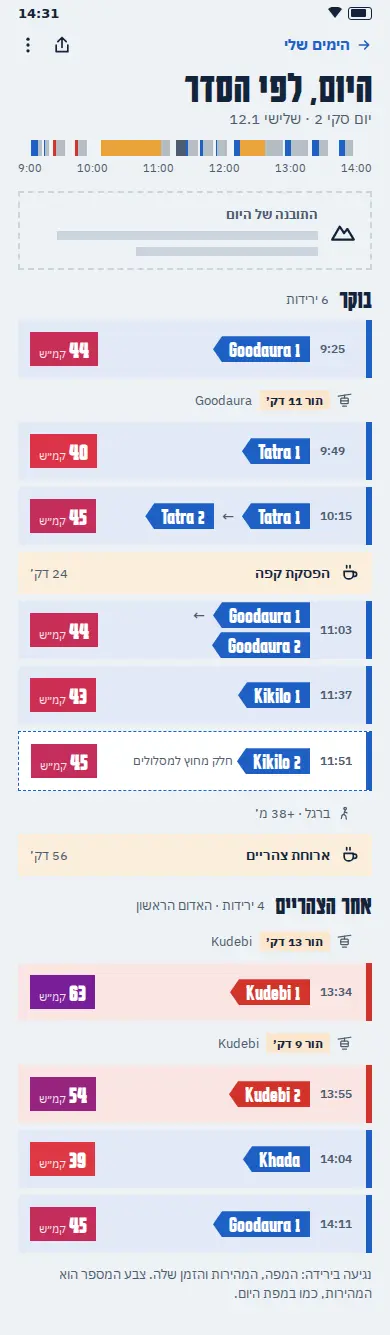
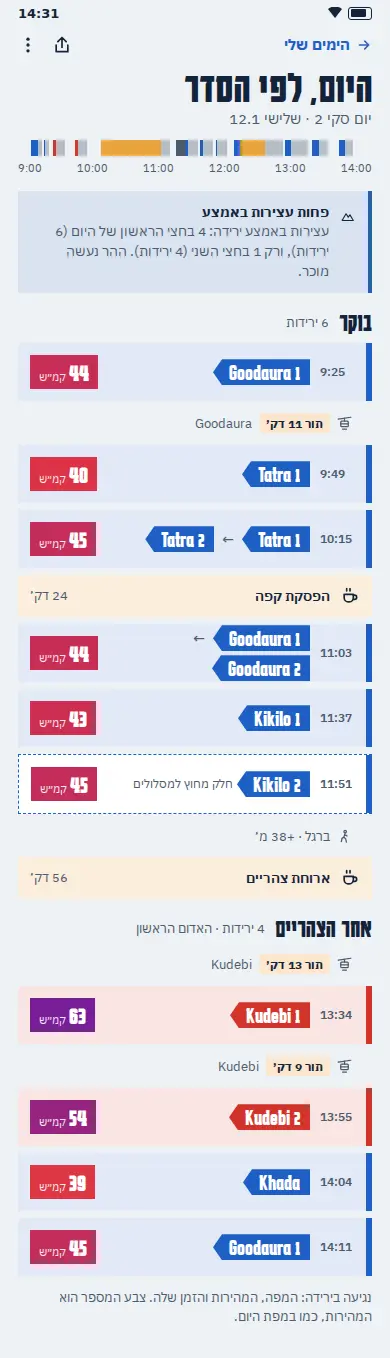
Canvas v97: insights, trip-end card and contrast fixes in round 29
Row I shows the content session's single-voice insights (and the
timeline uses one), a trip-end share card, and a new row J proposes
three contrast fixes for every platform.

Claude-Session: https://claude.ai/code/session_018WEovaqXC4kNabe89Cnwoj

diff --git a/design/canvas/project/R29-0-Decide.dc.html b/design/canvas/project/R29-0-Decide.dc.html
@@ -12,9 +12,9 @@
 body{margin:0;background:#EEF2F5}
 </style>
 </helmet>
-<div style="width: 600px; height: 1500px; box-sizing: border-box; padding: 28px; background: #FFFFFF; color: #13233A; font-family: 'IBM Plex Sans Hebrew', system-ui, sans-serif; direction: rtl; border-top: 8px solid #1F5FC4"><h1 style="margin: 0; font-family: Karantina, 'Arial Narrow', sans-serif; font-size: 48px; line-height: 1">מה לאשר בסבב 29</h1><p style="margin: 8px 0 12px; font-size: 14.5px; line-height: 1.55; color: #4B5A6F">גרסה 2, לפי ההערות של פיני (31.10.2026): כניסה אחת "מקליטים" מכל מקום, בלי סוללה, ציר זמן חדש, ובלי GPX. יום הגלישה (החלטה 76): הקלטה, מהירות והמסלול היומי, באנדרואיד ובאייפון, ביום ובלילה, בעברית ובאנגלית, מעל צילומי שתי האפליקציות. יום לדוגמה: קווים וגבהים אמיתיים, שעות ומהירויות מומצאות.</p><ol style="margin: 0; padding: 0; list-style: none"><li style="display: flex; flex-direction: column; gap: 2px; padding: 9px 0; border-top: 1px solid #CBD5DF"><b style="font-size: 16px">ההמלצה</b><span style="font-size: 14px; line-height: 1.55; color: #4B5A6F"><b style="color: #13233A">הכל כמו בלוחות:</b> כניסה אחת, &quot;מקליטים&quot;, כסקי־פס בדף הבית וכפתור במפה, מכל מקום ובכל שעה; אחרי הנגיעה בוחרים כל היום או ירידה אחת; הצעה אחת כשנפתחים בתוך האתר, מסך חי עם המהירות גדולה ו&quot;על מה אני עכשיו&quot;, התראה קבועה ו-Live Activity, ובסוף היום סיכום, מפה לפי מהירות, ציר זמן, צפייה חוזרת, כרטיס לכל ירידה, שיאים ותמונה לשיתוף.</span></li><li style="display: flex; flex-direction: column; gap: 2px; padding: 9px 0; border-top: 1px solid #CBD5DF"><b style="font-size: 16px">1. איפה מתחילים</b><span style="font-size: 14px; line-height: 1.55; color: #4B5A6F">סקי־פס &quot;מקליטים&quot; בראש עמוד השלטים וכפתור עגול במפה (ההמלצה), תמיד ובכל מקום, באותו עיצוב בשתי האפליקציות. או רק הכפתור במפה.</span></li><li style="display: flex; flex-direction: column; gap: 2px; padding: 9px 0; border-top: 1px solid #CBD5DF"><b style="font-size: 16px">2. ההצעה בתוך האתר</b><span style="font-size: 14px; line-height: 1.55; color: #4B5A6F">הצעה אחת ליום, עם &quot;לא עכשיו&quot; (ההמלצה), או בלי הצעה בכלל?</span></li><li style="display: flex; flex-direction: column; gap: 2px; padding: 9px 0; border-top: 1px solid #CBD5DF"><b style="font-size: 16px">3. צבע המהירות</b><span style="font-size: 14px; line-height: 1.55; color: #4B5A6F">סולם משלו, צהוב עד סגול (ההמלצה), כדי שלא יתבלבל עם צבעי המסלולים והשיפוע.</span></li><li style="display: flex; flex-direction: column; gap: 2px; padding: 9px 0; border-top: 1px solid #CBD5DF"><b style="font-size: 16px">4. התמונה לשיתוף</b><span style="font-size: 14px; line-height: 1.55; color: #4B5A6F">בלי שם ובלי חשבון (ההמלצה). עם שם כשיהיה שיתוף לקבוצה (שלב הבא).</span></li><li style="display: flex; flex-direction: column; gap: 2px; padding: 9px 0; border-top: 1px solid #CBD5DF"><b style="font-size: 16px">5. סיום</b><span style="font-size: 14px; line-height: 1.55; color: #4B5A6F">&quot;סיום&quot; שואל לפני שעוצר (ההמלצה), ובאנדרואיד גם בהתראה.</span></li><li style="display: flex; flex-direction: column; gap: 2px; padding: 9px 0; border-top: 1px solid #CBD5DF"><b style="font-size: 16px">6. &quot;פה נפלת&quot;</b><span style="font-size: 14px; line-height: 1.55; color: #4B5A6F">כשאלה משועשעת בציר הזמן, עם &quot;לא נפלתי&quot; שמוחק (ההמלצה), או בלי בכלל? ניחוש לפי תנועת הטלפון, לא ודאות ולא כלי בטיחות.</span></li><li style="display: flex; flex-direction: column; gap: 2px; padding: 9px 0; border-top: 1px solid #CBD5DF"><b style="font-size: 16px">7. על הרכבל</b><span style="font-size: 14px; line-height: 1.55; color: #4B5A6F">סיכום הירידה שהרגע עשית בהתראה וב-Live Activity כשעולים לרכבל (ההמלצה). באייפון Live Activity אחרי סקירת שרשרת השחרור.</span></li><li style="display: flex; flex-direction: column; gap: 2px; padding: 9px 0; border-top: 1px solid #CBD5DF"><b style="font-size: 16px">8. היום שלך</b><span style="font-size: 14px; line-height: 1.55; color: #4B5A6F">כרטיס אחד כמו כרטיס הטיסה, עם ציוני דרך מול עצמך בלבד, בלי דירוג (ההמלצה). &quot;סרטון קצר&quot; מהצפייה החוזרת לשיתוף.</span></li><li style="display: flex; flex-direction: column; gap: 2px; padding: 9px 0; border-top: 1px solid #CBD5DF"><b style="font-size: 16px">9. ירידה אחת</b><span style="font-size: 14px; line-height: 1.55; color: #4B5A6F">כבר לא כפתור נפרד (פיני): בורר &quot;כל היום / ירידה אחת&quot; בראש הגיליון החי, אחרי אותה נגיעה (ההמלצה). ירידה אחת נעצרת לבד בתחתית, וכרטיס מיד.</span></li><li style="display: flex; flex-direction: column; gap: 2px; padding: 9px 0; border-top: 1px solid #CBD5DF"><b style="font-size: 16px">10. מפת היום</b><span style="font-size: 14px; line-height: 1.55; color: #4B5A6F"><b style="color: #13233A">מפה משלה (ההמלצה):</b> בסיכום, בציר הזמן ובצפייה החוזרת המסלולים באפור עמום, ורק השובל צבוע לפי מהירות; על המפה הראשית שני סולמות צבע נלחמים זה בזה. בזמן ההקלטה השובל בכחול אחד על המפה הרגילה.</span></li><li style="display: flex; flex-direction: column; gap: 2px; padding: 9px 0; border-top: 1px solid #CBD5DF"><b style="font-size: 16px">11. הטון של &quot;הסיפור של היום&quot;</b><span style="font-size: 14px; line-height: 1.55; color: #4B5A6F">פיני אהב את התובנות, ורוצה תובנות אמיתיות ולא נתונים יבשים. הנוסחים אצל סשן התוכן; בלוחות מקום שמור (&quot;התובנה של היום&quot;). שובב ולא לועג, אף פעם לא על הרמה או על הגוף, ובלי השוואה לאחרים.</span></li><li style="display: flex; flex-direction: column; gap: 2px; padding: 9px 0; border-top: 1px solid #CBD5DF"><b style="font-size: 16px">12. יום לדוגמה</b><span style="font-size: 14px; line-height: 1.55; color: #4B5A6F">יום אחד לדוגמה ב&quot;הימים שלי&quot; עד היום האמיתי הראשון, מסומן ונפתח כמו יום אמיתי, ואחר כך בשורה אחת בתחתית עם &quot;הסרה&quot; (ההמלצה: כן). עוזר למשתמש חדש לפני העונה, ולסוקרים של אפל וגוגל, שלא נמצאים בגודאורי.</span></li><li style="display: flex; flex-direction: column; gap: 2px; padding: 9px 0; border-top: 1px solid #CBD5DF"><b style="font-size: 16px">13. בלי GPX</b><span style="font-size: 14px; line-height: 1.55; color: #4B5A6F">הייצוא ירד מגרסה 1 (פיני: טכני מדי). אז נמחק גם המשפט על הייצוא בשורת הפרטיות.</span></li><li style="display: flex; flex-direction: column; gap: 2px; padding: 9px 0; border-top: 1px solid #CBD5DF"><b style="font-size: 16px">אחרי האישור</b><span style="font-size: 14px; line-height: 1.55; color: #4B5A6F">סשני האנדרואיד והאייפון מממשים במקביל, אחרי סקירת הארכיטקט ושורת הפרטיות. שום דבר לא שונה באפליקציות.</span></li></ol></div>
+<div style="width: 600px; height: 1640px; box-sizing: border-box; padding: 28px; background: #FFFFFF; color: #13233A; font-family: 'IBM Plex Sans Hebrew', system-ui, sans-serif; direction: rtl; border-top: 8px solid #1F5FC4"><h1 style="margin: 0; font-family: Karantina, 'Arial Narrow', sans-serif; font-size: 48px; line-height: 1">מה לאשר בסבב 29</h1><p style="margin: 8px 0 12px; font-size: 14.5px; line-height: 1.55; color: #4B5A6F">גרסה 2, לפי ההערות של פיני (31.10.2026): כניסה אחת "מקליטים" מכל מקום, בלי סוללה, ציר זמן חדש, ובלי GPX. יום הגלישה (החלטה 76): הקלטה, מהירות והמסלול היומי, באנדרואיד ובאייפון, ביום ובלילה, בעברית ובאנגלית, מעל צילומי שתי האפליקציות. יום לדוגמה: קווים וגבהים אמיתיים, שעות ומהירויות מומצאות.</p><ol style="margin: 0; padding: 0; list-style: none"><li style="display: flex; flex-direction: column; gap: 2px; padding: 9px 0; border-top: 1px solid #CBD5DF"><b style="font-size: 16px">ההמלצה</b><span style="font-size: 14px; line-height: 1.55; color: #4B5A6F"><b style="color: #13233A">הכל כמו בלוחות:</b> כניסה אחת, &quot;מקליטים&quot;, כסקי־פס בדף הבית וכפתור במפה, מכל מקום ובכל שעה; אחרי הנגיעה בוחרים כל היום או ירידה אחת; הצעה אחת כשנפתחים בתוך האתר, מסך חי עם המהירות גדולה ו&quot;על מה אני עכשיו&quot;, התראה קבועה ו-Live Activity, ובסוף היום סיכום, מפה לפי מהירות, ציר זמן, צפייה חוזרת, כרטיס לכל ירידה, שיאים ותמונה לשיתוף.</span></li><li style="display: flex; flex-direction: column; gap: 2px; padding: 9px 0; border-top: 1px solid #CBD5DF"><b style="font-size: 16px">1. איפה מתחילים</b><span style="font-size: 14px; line-height: 1.55; color: #4B5A6F">סקי־פס &quot;מקליטים&quot; בראש עמוד השלטים וכפתור עגול במפה (ההמלצה), תמיד ובכל מקום, באותו עיצוב בשתי האפליקציות. או רק הכפתור במפה.</span></li><li style="display: flex; flex-direction: column; gap: 2px; padding: 9px 0; border-top: 1px solid #CBD5DF"><b style="font-size: 16px">2. ההצעה בתוך האתר</b><span style="font-size: 14px; line-height: 1.55; color: #4B5A6F">הצעה אחת ליום, עם &quot;לא עכשיו&quot; (ההמלצה), או בלי הצעה בכלל?</span></li><li style="display: flex; flex-direction: column; gap: 2px; padding: 9px 0; border-top: 1px solid #CBD5DF"><b style="font-size: 16px">3. צבע המהירות</b><span style="font-size: 14px; line-height: 1.55; color: #4B5A6F">סולם משלו, צהוב עד סגול (ההמלצה), כדי שלא יתבלבל עם צבעי המסלולים והשיפוע.</span></li><li style="display: flex; flex-direction: column; gap: 2px; padding: 9px 0; border-top: 1px solid #CBD5DF"><b style="font-size: 16px">4. התמונה לשיתוף</b><span style="font-size: 14px; line-height: 1.55; color: #4B5A6F">בלי שם ובלי חשבון (ההמלצה). עם שם כשיהיה שיתוף לקבוצה (שלב הבא).</span></li><li style="display: flex; flex-direction: column; gap: 2px; padding: 9px 0; border-top: 1px solid #CBD5DF"><b style="font-size: 16px">5. סיום</b><span style="font-size: 14px; line-height: 1.55; color: #4B5A6F">&quot;סיום&quot; שואל לפני שעוצר (ההמלצה), ובאנדרואיד גם בהתראה.</span></li><li style="display: flex; flex-direction: column; gap: 2px; padding: 9px 0; border-top: 1px solid #CBD5DF"><b style="font-size: 16px">6. &quot;פה נפלת&quot;</b><span style="font-size: 14px; line-height: 1.55; color: #4B5A6F">כשאלה משועשעת בציר הזמן, עם &quot;לא נפלתי&quot; שמוחק (ההמלצה), או בלי בכלל? ניחוש לפי תנועת הטלפון, לא ודאות ולא כלי בטיחות.</span></li><li style="display: flex; flex-direction: column; gap: 2px; padding: 9px 0; border-top: 1px solid #CBD5DF"><b style="font-size: 16px">7. על הרכבל</b><span style="font-size: 14px; line-height: 1.55; color: #4B5A6F">סיכום הירידה שהרגע עשית בהתראה וב-Live Activity כשעולים לרכבל (ההמלצה). באייפון Live Activity אחרי סקירת שרשרת השחרור.</span></li><li style="display: flex; flex-direction: column; gap: 2px; padding: 9px 0; border-top: 1px solid #CBD5DF"><b style="font-size: 16px">8. היום שלך</b><span style="font-size: 14px; line-height: 1.55; color: #4B5A6F">כרטיס אחד כמו כרטיס הטיסה, עם ציוני דרך מול עצמך בלבד, בלי דירוג (ההמלצה). &quot;סרטון קצר&quot; מהצפייה החוזרת לשיתוף.</span></li><li style="display: flex; flex-direction: column; gap: 2px; padding: 9px 0; border-top: 1px solid #CBD5DF"><b style="font-size: 16px">9. ירידה אחת</b><span style="font-size: 14px; line-height: 1.55; color: #4B5A6F">כבר לא כפתור נפרד (פיני): בורר &quot;כל היום / ירידה אחת&quot; בראש הגיליון החי, אחרי אותה נגיעה (ההמלצה). ירידה אחת נעצרת לבד בתחתית, וכרטיס מיד.</span></li><li style="display: flex; flex-direction: column; gap: 2px; padding: 9px 0; border-top: 1px solid #CBD5DF"><b style="font-size: 16px">10. מפת היום</b><span style="font-size: 14px; line-height: 1.55; color: #4B5A6F"><b style="color: #13233A">מפה משלה (ההמלצה):</b> בסיכום, בציר הזמן ובצפייה החוזרת המסלולים באפור עמום, ורק השובל צבוע לפי מהירות; על המפה הראשית שני סולמות צבע נלחמים זה בזה. בזמן ההקלטה השובל בכחול אחד על המפה הרגילה.</span></li><li style="display: flex; flex-direction: column; gap: 2px; padding: 9px 0; border-top: 1px solid #CBD5DF"><b style="font-size: 16px">11. התובנות</b><span style="font-size: 14px; line-height: 1.55; color: #4B5A6F">קול אחד, מסשן התוכן, בשורה ט: כותרת, עד שלוש תובנות מול עצמך בלבד, ו&quot;רעיון למחר&quot; (ההמלצה: כן). מחליף את שאלת הטון.</span></li><li style="display: flex; flex-direction: column; gap: 2px; padding: 9px 0; border-top: 1px solid #CBD5DF"><b style="font-size: 16px">12. יום לדוגמה</b><span style="font-size: 14px; line-height: 1.55; color: #4B5A6F">יום אחד לדוגמה ב&quot;הימים שלי&quot; עד היום האמיתי הראשון, מסומן ונפתח כמו יום אמיתי, ואחר כך בשורה אחת בתחתית עם &quot;הסרה&quot; (ההמלצה: כן). עוזר למשתמש חדש לפני העונה, ולסוקרים של אפל וגוגל, שלא נמצאים בגודאורי.</span></li><li style="display: flex; flex-direction: column; gap: 2px; padding: 9px 0; border-top: 1px solid #CBD5DF"><b style="font-size: 16px">14. כרטיס לסוף הטיול</b><span style="font-size: 14px; line-height: 1.55; color: #4B5A6F">בערב של יום הסקי האחרון, פעם אחת, לשיתוף (ההמלצה: כן).</span></li><li style="display: flex; flex-direction: column; gap: 2px; padding: 9px 0; border-top: 1px solid #CBD5DF"><b style="font-size: 16px">15. ניגודיות</b><span style="font-size: 14px; line-height: 1.55; color: #4B5A6F">ירוק <code dir="ltr" style="font-size: 12.5px; unicode-bidi: isolate; word-break: break-all">#198549</code>, קו מקווקו <code dir="ltr" style="font-size: 12.5px; unicode-bidi: isolate; word-break: break-all">#77869A</code> (בלילה <code dir="ltr" style="font-size: 12.5px; unicode-bidi: isolate; word-break: break-all">#6A7C99</code>) ושעון חול <code dir="ltr" style="font-size: 12.5px; unicode-bidi: isolate; word-break: break-all">#A87300</code>, בכל הפלטפורמות (ההמלצה: כן).</span></li><li style="display: flex; flex-direction: column; gap: 2px; padding: 9px 0; border-top: 1px solid #CBD5DF"><b style="font-size: 16px">13. בלי GPX</b><span style="font-size: 14px; line-height: 1.55; color: #4B5A6F">הייצוא ירד מגרסה 1 (פיני: טכני מדי). אז נמחק גם המשפט על הייצוא בשורת הפרטיות.</span></li><li style="display: flex; flex-direction: column; gap: 2px; padding: 9px 0; border-top: 1px solid #CBD5DF"><b style="font-size: 16px">אחרי האישור</b><span style="font-size: 14px; line-height: 1.55; color: #4B5A6F">סשני האנדרואיד והאייפון מממשים במקביל, אחרי סקירת הארכיטקט ושורת הפרטיות. שום דבר לא שונה באפליקציות.</span></li></ol></div>
 </x-dc>
-<script type="text/x-dc" data-dc-script data-props='{"$preview":{"width":600,"height":1500}}'>
+<script type="text/x-dc" data-dc-script data-props='{"$preview":{"width":600,"height":1640}}'>
 class Component extends DCLogic {
   renderVals() { return {}; }
 }

diff --git a/design/canvas/project/R29-Summary.dc.html b/design/canvas/project/R29-Summary.dc.html
@@ -12,9 +12,9 @@
 body{margin:0;background:#EEF2F5}
 </style>
 </helmet>
-<div style="width: 2126px; height: 1567px; box-sizing: border-box; padding: 20px; display: flex; flex-direction: column; gap: 12px; background: #FFFFFF; color: #13233A; font-family: 'IBM Plex Sans Hebrew', system-ui, sans-serif; direction: rtl"><div style="display: flex; flex-direction: column; gap: 6px; height: 118px; max-width: 2086px"><b style="font-family: Karantina, 'Arial Narrow', sans-serif; font-size: 34px; line-height: 1">ג. סוף היום, וציר זמן חדש (גרסה 2)</b><span style="font-size: 14px; line-height: 1.45; color: #4B5A6F">הסיכום כמו קודם. ציר הזמן נבנה מחדש, כי פיני: &quot;צפוף, מלא טקסט ומבולבל... מונוטוני&quot;. עכשיו: פס צבעוני של כל היום בראש, מקום לתובנה של היום (הנוסח מסשן התוכן), והיום בפרקים (בוקר, ארוחת צהריים, אחר הצהריים). כל ירידה כרטיס אחד בצבע המסלול, עם השלט, השעה ומספר אחד: המהירות המרבית, בצבע של סולם המהירות. רכבל מופיע רק כשהיה בו תור ארוך; קפה וארוחה בכתום חם. כל השאר בנגיעה.</span></div><div style="display: flex; gap: 28px; align-items: flex-start"><div style="display: flex; flex-direction: column; gap: 18px; width: 390px"><b style="height: 16px; font-size: 15px; color: #1F5FC4">אנדרואיד · הסיכום</b><img src="/_blob/4c52e5d500d06df3ff995c95727b4645" alt="אנדרואיד · הסיכום" style="display: block; width: 390px; height: 844px; box-shadow: 0 0 0 1px #CBD5DF"></div><div style="display: flex; flex-direction: column; gap: 18px; width: 402px"><b style="height: 16px; font-size: 15px; color: #1F5FC4">אייפון · הסיכום, לילה, English</b><img src="/_blob/71645a04e5f300489744cde52ca91b8a" alt="אייפון · הסיכום, לילה, English" style="display: block; width: 402px; height: 874px; box-shadow: 0 0 0 1px #CBD5DF"></div><div style="display: flex; flex-direction: column; gap: 18px; width: 390px"><b style="height: 16px; font-size: 15px; color: #1F5FC4">אנדרואיד · ציר הזמן</b><img src="/_blob/08c5d75fa25958feb3c6baff6fbafca6" alt="אנדרואיד · ציר הזמן" style="display: block; width: 390px; height: 1335px; box-shadow: 0 0 0 1px #CBD5DF"></div><div style="display: flex; flex-direction: column; gap: 18px; width: 402px"><b style="height: 16px; font-size: 15px; color: #1F5FC4">אייפון · ציר הזמן, English</b><img src="/_blob/2d49acc83fa847834dc2e196d65d6dde" alt="אייפון · ציר הזמן, English" style="display: block; width: 402px; height: 1363px; box-shadow: 0 0 0 1px #CBD5DF"></div><div style="display: flex; flex-direction: column; gap: 18px; width: 390px"><b style="height: 16px; font-size: 15px; color: #1F5FC4">אנדרואיד · ציר הזמן, לילה</b><img src="/_blob/b5f2bc074ef9eb6cee607e08597da636" alt="אנדרואיד · ציר הזמן, לילה" style="display: block; width: 390px; height: 1335px; box-shadow: 0 0 0 1px #CBD5DF"></div></div></div>
+<div style="width: 2126px; height: 1589px; box-sizing: border-box; padding: 20px; display: flex; flex-direction: column; gap: 12px; background: #FFFFFF; color: #13233A; font-family: 'IBM Plex Sans Hebrew', system-ui, sans-serif; direction: rtl"><div style="display: flex; flex-direction: column; gap: 6px; height: 118px; max-width: 2086px"><b style="font-family: Karantina, 'Arial Narrow', sans-serif; font-size: 34px; line-height: 1">ג. סוף היום, וציר זמן חדש (גרסה 2)</b><span style="font-size: 14px; line-height: 1.45; color: #4B5A6F">הסיכום כמו קודם. ציר הזמן נבנה מחדש, כי פיני: &quot;צפוף, מלא טקסט ומבולבל... מונוטוני&quot;. עכשיו: פס צבעוני של כל היום בראש, מקום לתובנה של היום (הנוסח מסשן התוכן), והיום בפרקים (בוקר, ארוחת צהריים, אחר הצהריים). כל ירידה כרטיס אחד בצבע המסלול, עם השלט, השעה ומספר אחד: המהירות המרבית, בצבע של סולם המהירות. רכבל מופיע רק כשהיה בו תור ארוך; קפה וארוחה בכתום חם. כל השאר בנגיעה.</span></div><div style="display: flex; gap: 28px; align-items: flex-start"><div style="display: flex; flex-direction: column; gap: 18px; width: 390px"><b style="height: 16px; font-size: 15px; color: #1F5FC4">אנדרואיד · הסיכום</b><img src="/_blob/4c52e5d500d06df3ff995c95727b4645" alt="אנדרואיד · הסיכום" style="display: block; width: 390px; height: 844px; box-shadow: 0 0 0 1px #CBD5DF"></div><div style="display: flex; flex-direction: column; gap: 18px; width: 402px"><b style="height: 16px; font-size: 15px; color: #1F5FC4">אייפון · הסיכום, לילה, English</b><img src="/_blob/71645a04e5f300489744cde52ca91b8a" alt="אייפון · הסיכום, לילה, English" style="display: block; width: 402px; height: 874px; box-shadow: 0 0 0 1px #CBD5DF"></div><div style="display: flex; flex-direction: column; gap: 18px; width: 390px"><b style="height: 16px; font-size: 15px; color: #1F5FC4">אנדרואיד · ציר הזמן</b><img src="/_blob/b91304bd48bf79546332fbb5ca84ef24" alt="אנדרואיד · ציר הזמן" style="display: block; width: 390px; height: 1358px; box-shadow: 0 0 0 1px #CBD5DF"></div><div style="display: flex; flex-direction: column; gap: 18px; width: 402px"><b style="height: 16px; font-size: 15px; color: #1F5FC4">אייפון · ציר הזמן, English</b><img src="/_blob/1c0148f7d1021d51aeb5dfb4f18a3a82" alt="אייפון · ציר הזמן, English" style="display: block; width: 402px; height: 1385px; box-shadow: 0 0 0 1px #CBD5DF"></div><div style="display: flex; flex-direction: column; gap: 18px; width: 390px"><b style="height: 16px; font-size: 15px; color: #1F5FC4">אנדרואיד · ציר הזמן, לילה</b><img src="/_blob/1f65bd47133852d2048144c64528053c" alt="אנדרואיד · ציר הזמן, לילה" style="display: block; width: 390px; height: 1358px; box-shadow: 0 0 0 1px #CBD5DF"></div></div></div>
 </x-dc>
-<script type="text/x-dc" data-dc-script data-props='{"$preview":{"width":2126,"height":1567}}'>
+<script type="text/x-dc" data-dc-script data-props='{"$preview":{"width":2126,"height":1589}}'>
 class Component extends DCLogic {
   renderVals() { return {}; }
 }

diff --git a/design/canvas/project/R29-Tone.dc.html b/design/canvas/project/R29-Tone.dc.html
@@ -2,7 +2,7 @@
 <html lang="he" dir="rtl">
 <head>
 <meta charset="utf-8">
-<title>ט. הטון של "הסיפור של היום"</title>
+<title>ט. "היום שלך": תובנות, בקול אחד</title>
 <script src="./support.js"></script>
 </head>
 <body>
@@ -12,9 +12,9 @@
 body{margin:0;background:#EEF2F5}
 </style>
 </helmet>
-<div style="width: 1696px; height: 1119px; box-sizing: border-box; padding: 20px; display: flex; flex-direction: column; gap: 12px; background: #FFFFFF; color: #13233A; font-family: 'IBM Plex Sans Hebrew', system-ui, sans-serif; direction: rtl"><div style="display: flex; flex-direction: column; gap: 6px; height: 118px; max-width: 1656px"><b style="font-family: Karantina, 'Arial Narrow', sans-serif; font-size: 34px; line-height: 1">ט. הטון של &quot;הסיפור של היום&quot;</b><span style="font-size: 14px; line-height: 1.45; color: #4B5A6F">אותו יום לדוגמה, אותם רגעים, בשלושה טונים. מנוע הרגעים בוחר מה קרה; הטקסט בא מהטון שייבחר. א (מומלץ): שובב ולא לועג, אף פעם לא על הרמה או על הגוף. ב: יבש, משפטים קצרים בלי בדיחה. ג: נתונים בלבד, בלי רגעים. הנוסחים הם הטיוטה של סשן התוכן (docs/handoff/2026-10-30-dayrec-moments-copy), הגרסה הראשונה של כל שורה, בעברית ובאנגלית; גם רוסית וגאורגית שם. הנפילה היא שאלה ולא נכנסת לכרטיס לשיתוף, ולכן במקומה &quot;פה טסת&quot;, שמסתיים ב&quot;רשום אצלך&quot; בלי שבח למהירות.</span></div><div style="display: flex; gap: 28px; align-items: flex-start"><div style="display: flex; flex-direction: column; gap: 18px; width: 390px"><b style="height: 16px; font-size: 15px; color: #1F5FC4">אנדרואיד · א. שובב ולא לועג (מומלץ)</b><img src="/_blob/af175ea5ba8dbfa349c388b4f54264fc" alt="אנדרואיד · א. שובב ולא לועג (מומלץ)" style="display: block; width: 390px; height: 888px; box-shadow: 0 0 0 1px #CBD5DF"></div><div style="display: flex; flex-direction: column; gap: 18px; width: 390px"><b style="height: 16px; font-size: 15px; color: #1F5FC4">אנדרואיד · ב. יבש</b><img src="/_blob/e2cd5ec03e7fdd5d685761db6a65a4bc" alt="אנדרואיד · ב. יבש" style="display: block; width: 390px; height: 860px; box-shadow: 0 0 0 1px #CBD5DF"></div><div style="display: flex; flex-direction: column; gap: 18px; width: 390px"><b style="height: 16px; font-size: 15px; color: #1F5FC4">אנדרואיד · ג. נתונים בלבד</b><img src="/_blob/2944e6fc65a9a4fafa8ff91fbffe9a66" alt="אנדרואיד · ג. נתונים בלבד" style="display: block; width: 390px; height: 713px; box-shadow: 0 0 0 1px #CBD5DF"></div><div style="display: flex; flex-direction: column; gap: 18px; width: 402px"><b style="height: 16px; font-size: 15px; color: #1F5FC4">אייפון · א. באנגלית, נכתב מחדש</b><img src="/_blob/e44669f8b444370eaebf5d3bfbab80bd" alt="אייפון · א. באנגלית, נכתב מחדש" style="display: block; width: 402px; height: 915px; box-shadow: 0 0 0 1px #CBD5DF"></div></div></div>
+<div style="width: 860px; height: 1140px; box-sizing: border-box; padding: 20px; display: flex; flex-direction: column; gap: 12px; background: #FFFFFF; color: #13233A; font-family: 'IBM Plex Sans Hebrew', system-ui, sans-serif; direction: rtl"><div style="display: flex; flex-direction: column; gap: 6px; height: 118px; max-width: 820px"><b style="font-family: Karantina, 'Arial Narrow', sans-serif; font-size: 34px; line-height: 1">ט. &quot;היום שלך&quot;: תובנות, בקול אחד</b><span style="font-size: 14px; line-height: 1.45; color: #4B5A6F">פיני אהב את התובנות, ורוצה תובנות אמיתיות ולא נתונים יבשים. לכן במקום שלושה טונים יש קול אחד, מסשן התוכן (`docs/handoff/2026-10-30-dayrec-moments-copy/insights.json`). בכרטיס: כותרת שאומרת איזה יום זה היה, המספרים בשורה קטנה, עד שלוש תובנות מול עצמך בלבד, ו&quot;רעיון למחר&quot; בשורה אחת, שלעולם לא קשה ממה שכבר גלשת. בתמונה לשיתוף רק הכותרת, המספרים והמפה. הנפילה עדיין שאלה, ולא נכנסת לשיתוף. המספרים להמחשה, עד שהמנוע יחשב את התובנות.</span></div><div style="display: flex; gap: 28px; align-items: flex-start"><div style="display: flex; flex-direction: column; gap: 18px; width: 390px"><b style="height: 16px; font-size: 15px; color: #1F5FC4">אנדרואיד · היום שלך</b><img src="/_blob/91a3129aed5269d1ca0ca132bb69d8fe" alt="אנדרואיד · היום שלך" style="display: block; width: 390px; height: 887px; box-shadow: 0 0 0 1px #CBD5DF"></div><div style="display: flex; flex-direction: column; gap: 18px; width: 402px"><b style="height: 16px; font-size: 15px; color: #1F5FC4">אייפון · English</b><img src="/_blob/eda17e526d47295b6c29f452b4c97397" alt="אייפון · English" style="display: block; width: 402px; height: 936px; box-shadow: 0 0 0 1px #CBD5DF"></div></div></div>
 </x-dc>
-<script type="text/x-dc" data-dc-script data-props='{"$preview":{"width":1696,"height":1119}}'>
+<script type="text/x-dc" data-dc-script data-props='{"$preview":{"width":860,"height":1140}}'>
 class Component extends DCLogic {
   renderVals() { return {}; }
 }

diff --git a/design/canvas/project/R29-Trip.dc.html b/design/canvas/project/R29-Trip.dc.html
@@ -1,0 +1,23 @@
+<!doctype html>
+<html lang="he" dir="rtl">
+<head>
+<meta charset="utf-8">
+<title>ט. כרטיס לסוף הטיול (ההמלצה: כן)</title>
+<script src="./support.js"></script>
+</head>
+<body>
+<x-dc>
+<helmet>
+<style>
+body{margin:0;background:#EEF2F5}
+</style>
+</helmet>
+<div style="width: 860px; height: 1058px; box-sizing: border-box; padding: 20px; display: flex; flex-direction: column; gap: 12px; background: #FFFFFF; color: #13233A; font-family: 'IBM Plex Sans Hebrew', system-ui, sans-serif; direction: rtl"><div style="display: flex; flex-direction: column; gap: 6px; height: 118px; max-width: 820px"><b style="font-family: Karantina, 'Arial Narrow', sans-serif; font-size: 34px; line-height: 1">ט. כרטיס לסוף הטיול (ההמלצה: כן)</b><span style="font-size: 14px; line-height: 1.45; color: #4B5A6F">הרגע שבו חברים משתפים. בערב של יום הסקי האחרון ב&quot;הטיול שלך&quot;: כמה ימים, כמה מטרים למטה וכמה מסלולים, עמודה לכל יום (הגובה: הירידה של היום, הצבע: המסלול הקשה של אותו יום), המסלול שחזרת אליו, והצבע הראשון. הסיכום כבר מחושב במנוע, והנוסחים מסשן התוכן (`moment.trip.*`). פעם אחת, נשאר ב&quot;הימים שלי&quot;, בלי שם ובלי נפילות.</span></div><div style="display: flex; gap: 28px; align-items: flex-start"><div style="display: flex; flex-direction: column; gap: 18px; width: 390px"><b style="height: 16px; font-size: 15px; color: #1F5FC4">אנדרואיד · סוף הטיול</b><img src="/_blob/e22e223b82d6bd980ddb784c0c5b51d8" alt="אנדרואיד · סוף הטיול" style="display: block; width: 390px; height: 804px; box-shadow: 0 0 0 1px #CBD5DF"></div><div style="display: flex; flex-direction: column; gap: 18px; width: 402px"><b style="height: 16px; font-size: 15px; color: #1F5FC4">אייפון · לילה, English</b><img src="/_blob/c891ae353a7e061e36fa64735b6ea93d" alt="אייפון · לילה, English" style="display: block; width: 402px; height: 854px; box-shadow: 0 0 0 1px #CBD5DF"></div></div></div>
+</x-dc>
+<script type="text/x-dc" data-dc-script data-props='{"$preview":{"width":860,"height":1058}}'>
+class Component extends DCLogic {
+  renderVals() { return {}; }
+}
+</script>
+</body>
+</html>

diff --git a/design/canvas/project/R29-Contrast.dc.html b/design/canvas/project/R29-Contrast.dc.html
@@ -1,0 +1,23 @@
+<!doctype html>
+<html lang="he" dir="rtl">
+<head>
+<meta charset="utf-8">
+<title>י. ניגודיות: שלושה תיקונים לכל הפלטפורמות</title>
+<script src="./support.js"></script>
+</head>
+<body>
+<x-dc>
+<helmet>
+<style>
+body{margin:0;background:#EEF2F5}
+</style>
+</helmet>
+<div style="width: 1676px; height: 804px; box-sizing: border-box; padding: 20px; display: flex; flex-direction: column; gap: 12px; background: #FFFFFF; color: #13233A; font-family: 'IBM Plex Sans Hebrew', system-ui, sans-serif; direction: rtl"><div style="display: flex; flex-direction: column; gap: 6px; height: 118px; max-width: 1636px"><b style="font-family: Karantina, 'Arial Narrow', sans-serif; font-size: 34px; line-height: 1">י. ניגודיות: שלושה תיקונים לכל הפלטפורמות</b><span style="font-size: 14px; line-height: 1.45; color: #4B5A6F">מסשן האייפון. 1. טקסט לבן על הירוק `#1B8A4C` הוא 4.39:1, מתחת ל-4.5: ירוק `#198549` (4.67:1), כמעט אותו צבע, בטוקן האחד של כל הפלטפורמות; בלילה כבר עובר. 2. הקו המקווקו של צ׳יפים, &quot;הבא&quot; וספח הכרטיס (`--dash`) הוא 2.5 עד 2.8:1, וגבול של רכיב צריך 3:1: ביום `#77869A` (3.3 על השלג), בלילה `#6A7C99` (4.3). 3. שעון החול הענברי `#C98A00` הוא 2.95:1: `#A87300` (4.1), בלילה כבר עובר.</span></div><div style="display: flex; gap: 28px; align-items: flex-start"><div style="display: flex; flex-direction: column; gap: 18px; width: 804px"><b style="height: 16px; font-size: 15px; color: #1F5FC4">ביום</b><img src="/_blob/ca52231255e4deb4d0b04ec1af0c17f5" alt="ביום" style="display: block; width: 804px; height: 600px; box-shadow: 0 0 0 1px #CBD5DF"></div><div style="display: flex; flex-direction: column; gap: 18px; width: 804px"><b style="height: 16px; font-size: 15px; color: #1F5FC4">בלילה</b><img src="/_blob/5a7dd316a73fbc3bea312ca0865af5be" alt="בלילה" style="display: block; width: 804px; height: 600px; box-shadow: 0 0 0 1px #CBD5DF"></div></div></div>
+</x-dc>
+<script type="text/x-dc" data-dc-script data-props='{"$preview":{"width":1676,"height":804}}'>
+class Component extends DCLogic {
+  renderVals() { return {}; }
+}
+</script>
+</body>
+</html>

diff --git a/design/round29/build.py b/design/round29/build.py
@@ -13,7 +13,7 @@ sys.path.insert(0, str(root / 'design/round12'))
 from build import page  # the board shell of rounds 12 to 28
 
 PAGE = ('round29', 'סבב 29: יום הגלישה')
-NAMES = sorted(p.stem for p in (here / 'shots').glob('[a-ipnqt]-*.png'))
+NAMES = sorted(p.stem for p in (here / 'shots').glob('[a-jpnqt]-*.png'))
 SRC = {n: ('shots/' + n + '.png', 0, 0, 0) for n in NAMES}
 # images from other folders, for rounds 30 (buildings, research/3d-buildings.md) and 32 (the companion character); the
 # number is the scale (the character boards are drawn at double size)
@@ -47,8 +47,12 @@ BOARDS = [
      [(A + ' · באמצע הירידה', ['g-and-live']), (A + ' · הכרטיס בתחתית', ['g-and-card']), (I + ' · הכרטיס, לילה, English', ['g-ios-card-night-en'])]),
     ('h', 'DayMap', 'ח. מפת היום: על המפה הראשית, או מפה משלה', 'א: השובל מעל המפה הראשית, עם כל צבעי המסלולים, ושני סולמות צבע מתנגשים. ב (מומלץ): אותו הר, המסלולים באפור עמום כמו בסבב 25, ורק השובל בצבע לפי מהירות. בזמן ההקלטה השובל בכחול אחד על המפה הרגילה (ב.), כדי שהמסלולים יישארו קריאים בהר.',
      [(A + ' · א. על המפה הראשית', ['h-and-main']), (A + ' · ב. מפת היום', ['h-and-day']), (I + ' · ב. לילה, English', ['h-ios-day-night-en'])]),
-    ('i', 'Tone', 'ט. הטון של "הסיפור של היום"', 'אותו יום לדוגמה, אותם רגעים, בשלושה טונים. מנוע הרגעים בוחר מה קרה; הטקסט בא מהטון שייבחר. א (מומלץ): שובב ולא לועג, אף פעם לא על הרמה או על הגוף. ב: יבש, משפטים קצרים בלי בדיחה. ג: נתונים בלבד, בלי רגעים. הנוסחים הם הטיוטה של סשן התוכן (docs/handoff/2026-10-30-dayrec-moments-copy), הגרסה הראשונה של כל שורה, בעברית ובאנגלית; גם רוסית וגאורגית שם. הנפילה היא שאלה ולא נכנסת לכרטיס לשיתוף, ולכן במקומה "פה טסת", שמסתיים ב"רשום אצלך" בלי שבח למהירות.',
-     [(A + ' · א. שובב ולא לועג (מומלץ)', ['i-and-tone-play']), (A + ' · ב. יבש', ['i-and-tone-dry']), (A + ' · ג. נתונים בלבד', ['i-and-tone-data']), (I + ' · א. באנגלית, נכתב מחדש', ['i-ios-tone-play-en'])]),
+    ('i', 'Tone', 'ט. "היום שלך": תובנות, בקול אחד', 'פיני אהב את התובנות, ורוצה תובנות אמיתיות ולא נתונים יבשים. לכן במקום שלושה טונים יש קול אחד, מסשן התוכן (`docs/handoff/2026-10-30-dayrec-moments-copy/insights.json`). בכרטיס: כותרת שאומרת איזה יום זה היה, המספרים בשורה קטנה, עד שלוש תובנות מול עצמך בלבד, ו"רעיון למחר" בשורה אחת, שלעולם לא קשה ממה שכבר גלשת. בתמונה לשיתוף רק הכותרת, המספרים והמפה. הנפילה עדיין שאלה, ולא נכנסת לשיתוף. המספרים להמחשה, עד שהמנוע יחשב את התובנות.',
+     [(A + ' · היום שלך', ['i-and-story']), (I + ' · English', ['i-ios-story-en'])]),
+    ('i', 'Trip', 'ט. כרטיס לסוף הטיול (ההמלצה: כן)', 'הרגע שבו חברים משתפים. בערב של יום הסקי האחרון ב"הטיול שלך": כמה ימים, כמה מטרים למטה וכמה מסלולים, עמודה לכל יום (הגובה: הירידה של היום, הצבע: המסלול הקשה של אותו יום), המסלול שחזרת אליו, והצבע הראשון. הסיכום כבר מחושב במנוע, והנוסחים מסשן התוכן (`moment.trip.*`). פעם אחת, נשאר ב"הימים שלי", בלי שם ובלי נפילות.',
+     [(A + ' · סוף הטיול', ['i-and-trip']), (I + ' · לילה, English', ['i-ios-trip-night-en'])]),
+    ('j', 'Contrast', 'י. ניגודיות: שלושה תיקונים לכל הפלטפורמות', 'מסשן האייפון. 1. טקסט לבן על הירוק `#1B8A4C` הוא 4.39:1, מתחת ל-4.5: ירוק `#198549` (4.67:1), כמעט אותו צבע, בטוקן האחד של כל הפלטפורמות; בלילה כבר עובר. 2. הקו המקווקו של צ׳יפים, "הבא" וספח הכרטיס (`--dash`) הוא 2.5 עד 2.8:1, וגבול של רכיב צריך 3:1: ביום `#77869A` (3.3 על השלג), בלילה `#6A7C99` (4.3). 3. שעון החול הענברי `#C98A00` הוא 2.95:1: `#A87300` (4.1), בלילה כבר עובר.',
+     [('ביום', ['j-contrast-day']), ('בלילה', ['j-contrast-night'])]),
 ]
 P31 = [
     ('a', 'Map', 'א. במפה: צבע לכל סוג, ושתי דרכים להראות (גרסה 2)', 'פיני: המקומות צריכים לבלוט יותר, ולא הכל באותו צבע (נבלע במפה). עכשיו צבע לכל סוג, רחוק מצבעי המסלולים: אוכל כתום, קפה חום, עזרה ראשונה צלב ירוק, שירותים סגול. **א (ההמלצה): תמיד, קטן.** נקודות צבעוניות ליד כל תחנה, בלי מספרים, כך שרואים מיד איפה יש משהו; הצ׳יפ "אוכל" מגדיל אותן לתגיות. **ב: רק עם הצ׳יפ.** תגית לכל תחנה, עם עיגול לכל סוג ומספר המקומות. קפה עונתי על המדרון: במסגרת מקווקוות.',
@@ -76,7 +80,7 @@ P31_DECIDE = [
     ('4. איפה', 'אתר ושתי האפליקציות (ההמלצה), כמו כל מה שבמפה (החלטה 50).'),
     ('אחרי האישור', 'סקירת ארכיטקט לשכבה החדשה, כלי שבונה אותה מהמפה הפתוחה, ואז האתר והאפליקציות במקביל. מומחה הסקי בודק בשטח בדצמבר.'),
 ]
-ROWS = [('a', 'א. מקליטים'), ('b', 'ב. בזמן ההקלטה'), ('c', 'ג. סוף היום'), ('d', 'ד. היסטוריה'), ('e', 'ה. מצבים'), ('f', 'ו. החוויה'), ('g', 'ז. ירידה אחת'), ('h', 'ח. מפת היום'), ('i', 'ט. הטון')]
+ROWS = [('a', 'א. מקליטים'), ('b', 'ב. בזמן ההקלטה'), ('c', 'ג. סוף היום'), ('d', 'ד. היסטוריה'), ('e', 'ה. מצבים'), ('f', 'ו. החוויה'), ('g', 'ז. ירידה אחת'), ('h', 'ח. מפת היום'), ('i', 'ט. היום שלך וסוף הטיול'), ('j', 'י. ניגודיות')]
 P30 = [
     ('a', 'Render', 'א. מה אפשר היום, מהנתונים', 'הדמיה מהנתונים האמיתיים, לא עיצוב: כל בניין ב-New Gudauri כגוש בצורה האמיתית שלו, על פני השטח, עם הכבישים. בצבע: גובה ידוע מהמפה הפתוחה (26 מתוך 230). באפור בהיר: גובה משוער, 3 קומות. מודלים מפורטים (חזיתות, מרפסות) לא אפשריים בלי להמציא.',
      [('כל New Gudauri', ['x-all']), ('מקרוב: הבלוקים ליד הרכבלים', ['x-close'])]),
@@ -186,12 +190,14 @@ DECIDE = [
     ('8. היום שלך', 'כרטיס אחד כמו כרטיס הטיסה, עם ציוני דרך מול עצמך בלבד, בלי דירוג (ההמלצה). "סרטון קצר" מהצפייה החוזרת לשיתוף.'),
     ('9. ירידה אחת', 'כבר לא כפתור נפרד (פיני): בורר "כל היום / ירידה אחת" בראש הגיליון החי, אחרי אותה נגיעה (ההמלצה). ירידה אחת נעצרת לבד בתחתית, וכרטיס מיד.'),
     ('10. מפת היום', '**מפה משלה (ההמלצה):** בסיכום, בציר הזמן ובצפייה החוזרת המסלולים באפור עמום, ורק השובל צבוע לפי מהירות; על המפה הראשית שני סולמות צבע נלחמים זה בזה. בזמן ההקלטה השובל בכחול אחד על המפה הרגילה.'),
-    ('11. הטון של "הסיפור של היום"', 'פיני אהב את התובנות, ורוצה תובנות אמיתיות ולא נתונים יבשים. הנוסחים אצל סשן התוכן; בלוחות מקום שמור ("התובנה של היום"). שובב ולא לועג, אף פעם לא על הרמה או על הגוף, ובלי השוואה לאחרים.'),
+    ('11. התובנות', 'קול אחד, מסשן התוכן, בשורה ט: כותרת, עד שלוש תובנות מול עצמך בלבד, ו"רעיון למחר" (ההמלצה: כן). מחליף את שאלת הטון.'),
     ('12. יום לדוגמה', 'יום אחד לדוגמה ב"הימים שלי" עד היום האמיתי הראשון, מסומן ונפתח כמו יום אמיתי, ואחר כך בשורה אחת בתחתית עם "הסרה" (ההמלצה: כן). עוזר למשתמש חדש לפני העונה, ולסוקרים של אפל וגוגל, שלא נמצאים בגודאורי.'),
+    ('14. כרטיס לסוף הטיול', 'בערב של יום הסקי האחרון, פעם אחת, לשיתוף (ההמלצה: כן).'),
+    ('15. ניגודיות', 'ירוק `#198549`, קו מקווקו `#77869A` (בלילה `#6A7C99`) ושעון חול `#A87300`, בכל הפלטפורמות (ההמלצה: כן).'),
     ('13. בלי GPX', 'הייצוא ירד מגרסה 1 (פיני: טכני מדי). אז נמחק גם המשפט על הייצוא בשורת הפרטיות.'),
     ('אחרי האישור', 'סשני האנדרואיד והאייפון מממשים במקביל, אחרי סקירת הארכיטקט ושורת הפרטיות. שום דבר לא שונה באפליקציות.'),
 ]
-GAP, PAD, HEAD, CGAP, DW, DH = 18, 20, 130, 28, 600, 1500
+GAP, PAD, HEAD, CGAP, DW, DH = 18, 20, 130, 28, 600, 1640
 def webp():
     out = here / 'shots/web'
     out.mkdir(exist_ok=True)

diff --git a/docs/STATUS.md b/docs/STATUS.md
@@ -296,7 +296,7 @@
 
 **סקירת אבטחה של קוד האנדרואיד (30.9.2026, קריאה בלבד, לא בדיקה מלאה):** הרשאה אחת בלבד (אינטרנט), תעבורה לא מוצפנת חסומה, גיבוי כבוי, מפתחות חתימה ב-`.gitignore`, אין סודות בקוד. הקישורים החיצוניים: יוטיוב (תמונות וגם נגן ב-WebView), OpenStreetMap ומדיניות הפרטיות של גוגל. לא נבדקו: התלויות (ספריות), ההתנהגות בפועל בטלפון, וקובץ ההתקנה עצמו.
 
-**כל מה שממתין לפיני (המקום היחיד; עודכן 31.10.2026).** כל שאלה, התלבטות או פעולה שמחכה לפיני, מכל הסשנים. ההמלצה בסוגריים, הפירוט בקובץ המקושר. שאלה חדשה מכל סשן נכנסת לכאן. הקנבס המשותף: https://claude.ai/artifact/TVdeDbFBhvFDZdhCKjcys4 (גרסה 96).
+**כל מה שממתין לפיני (המקום היחיד; עודכן 31.10.2026).** כל שאלה, התלבטות או פעולה שמחכה לפיני, מכל הסשנים. ההמלצה בסוגריים, הפירוט בקובץ המקושר. שאלה חדשה מכל סשן נכנסת לכאן. הקנבס המשותף: https://claude.ai/artifact/TVdeDbFBhvFDZdhCKjcys4 (גרסה 97).
 
 **א. מה עוצר עבודה עכשיו (הכי דחוף)**
 - [x] 1. **אושרה (פיני, 31.10.2026, החלטה 77)** **שורת הפרטיות ליום הגלישה**, מוכנה בארבע השפות; מתפרסמת עם הגרסה שבה הפיצ'ר נדלק, ואם ה-GPX יורד, בלי המשפט על הייצוא. הנוסח הסופי, בלי משפטי ה-GPX, מוכן בענף `claude/legal-dayrec-final` (לא ממוזג). **נשאר לפיני, שני שינויים קטנים בנוסח, יחד כשסבב 29 ייסגר:** (1) שיכסה גם הקלטה שמתחילים באמצע היום (ג10); (2) שיגיד מה לא נשלח במקום "רק", כי מדידת "הסיפור של היום" (`story_view`, `story_share`, בלי מיקום, מסלול ומהירות) סותרת את ה"רק". שניהם בטבלה בסוף מסמך המסירה בענף (`docs/handoff/2026-10-30-dayrec-privacy/README.md`). בלעדיה יום הגלישה לא ממוזג באנדרואיד ובאייפון, ששניהם כבר בנויים ובדוקים בענפים.
@@ -330,9 +330,10 @@
   - [ ] 8. "היום שלך" ככרטיס אחד, עם ציוני דרך מול עצמך? (כן)
   - [ ] 9. מפת היום כמפה נפרדת (ההר והמסלולים עמומים, רק המסלול שלך צבוע) או על המפה הראשית? (פיני התלבט; ההמלצה: מפה נפרדת, שתי החלופות בקנבס)
   - [x] 10. "מודדים ירידה": **פיני (31.10.2026): לא מתוך פאנל של מסלול**, אלא הקלטה שמתחילים מיד כשפותחים את האפליקציה, מכל מקום ובכל שעה, גם באמצע היום. המעצב מציע את הכניסה.
-  - [ ] 14. **כרטיס שיתוף לסוף הטיול** (סשן התוכן, 31.10.2026): סיכום הטיול כולו כבר מחושב במנוע, אבל לא נכנס לתמונת השיתוף. לעשות לו כרטיס משלו? (כן, זה הרגע שחברים משתפים; לוח בקנבס עם הגרסה הבאה של סבב 29)
+  - [ ] 14. **כרטיס שיתוף לסוף הטיול** (סשן התוכן, 31.10.2026): סיכום הטיול כולו כבר מחושב במנוע, אבל לא נכנס לתמונת השיתוף. לעשות לו כרטיס משלו? (כן, זה הרגע שחברים משתפים; הלוח בקנבס, סבב 29, שורה ט, גרסה 97)
   - [ ] 13. **"Export as GPX"** (קובץ מסלול שאפליקציות כמו Strava ו-Google Earth פותחות): פיני: "טכני מדי". להוריד לגמרי מגרסה 1? (כן; בגרסה 2 בקנבס הוא כבר ירד, וגם לוח האזהרה. אז נמחק גם המשפט על הייצוא בשורת הפרטיות)
-  - [ ] 11. **"הסיפור של היום" כתובנות** (במקום שאלת הטון): גרסה 2 של סשן התוכן, קול אחד בארבע השפות, מול עצמך בלבד ובלי עידוד מהירות (`docs/handoff/2026-10-30-dayrec-moments-copy/insights.json`); לאשר בקנבס, בשורה ט של סבב 29, כשהמעצב יעדכן. (לאשר)
+  - [ ] 11. **"הסיפור של היום" כתובנות** (במקום שאלת הטון): גרסה 2 של סשן התוכן, קול אחד בארבע השפות, מול עצמך בלבד ובלי עידוד מהירות (`docs/handoff/2026-10-30-dayrec-moments-copy/insights.json`); בקנבס, סבב 29, שורה ט (גרסה 97), וגם בציר הזמן. (לאשר)
+  - [ ] 15. **ניגודיות** (סשן האייפון; סבב 29, שורה י): ירוק `#198549` במקום `#1B8A4C` (טקסט לבן 4.67:1), קו מקווקו `#77869A` (בלילה `#6A7C99`), ושעון חול `#A87300`, בכל הפלטפורמות. (כן)
   - [ ] 12. יום לדוגמה בהיסטוריה, בשביל הסוקר של אפל ומשתמש חדש לפני העונה (כן)
 
 **ד. מבנים, כבישים ודרכים בתלת-ממד ב-New Gudauri** (`research/3d-buildings.md`, סעיף 5; ההדמיות ב-`design/round30/` ובקנבס, עמוד "סבב 30"; הארכיטקט אישר את ה-POC באתר בארבעה תנאים):
@@ -472,6 +473,8 @@
 - 31.10.2026: **תוכן ושפות: "הסיפור של היום" כתובנות** (פיני: "insights אמיתיים ולא נתונים יבשים"; לבקשת סשן המנהל). גרסה 2 של הנוסחים (`docs/handoff/2026-10-30-dayrec-moments-copy/insights.json`): קול אחד במקום שלושה טונים, וכל שורה אומרת מה זה אומר על היום שלך: כותרת לפי סוג היום, שינוי לאורך היום (פחות עצירות באמצע), מול היום הקודם ומול הראשון, המסלול שחזרת אליו, לאן הלך הזמן, הקטע הכי תלול, ו"רעיון למחר" שלעולם לא קשה יותר ממה שכבר גלשת. אחרי הערות של מנהל מוצר ה-AI: עד שלוש תובנות בכרטיס, כותרת "יום של פעם ראשונה" במקום "עלית מדרגה", רגע חלופי ביום בלי השוואה, וסיכום של סוף הטיול. בארבע השפות, כל אחת נכתבה בשפה עצמה; בלי השוואה לאחרים ובלי עידוד מהירות; הבדיקה עוברת. **הבא:** סשן האלגוריתם מוסיף למנוע את הפרמטרים ברשימה (`README.md` שם), ואז הנוסחים עוברים לקובץ השפות.
 - 31.10.2026: **ארכיטקט: מבנים בתלת-ממד בכיוון ריאליסטי (החלטה 77) נסקרו, מאושר ל-POC** עם `look` ו-`lsrc` חובה, קישוטים רק כ-`fill` שלא סותרים את המפה, "הדמיה, לא צילום" בקרדיטים, תקרה של 40 אלף משולשים עם חזרה אוטומטית לגרסה פשוטה, ומרקם חזית אחד מ-canvas. `docs/ARCHITECTURE.md`. לא שונה קוד.
 
+
+- 31.10.2026: **קנבס גרסה 97: התובנות, כרטיס סוף הטיול וניגודיות** (מעצב המוצר, לבקשת סשן המנהל וסשן התוכן; ממתין לפיני). בסבב 29, שורה ט: במקום שלושת לוחות הטון, לוח אחד של "היום שלך" בקול האחד של סשן התוכן (`insights.json`): כותרת, עד שלוש תובנות מול עצמך, ו"רעיון למחר"; גם בעברית וגם באנגלית. גם בציר הזמן התובנה במקום המקום השמור. לוח חדש לכרטיס סוף הטיול (ההמלצה: כן). שורה י חדשה: שלושה תיקוני ניגודיות מסשן האייפון, לכל הפלטפורמות: ירוק `#198549`, קו מקווקו `#77869A` (בלילה `#6A7C99`), ושעון חול `#A87300`. שום דבר לא שונה באתר ובאפליקציות.
 
 - 31.10.2026: **קנבס גרסה 96: גרסה 2 לסבבים 29, 31 ו-21, לפי ההערות של פיני** (מעצב המוצר, החלטה 77; ממתין לפיני). **סבב 29:** בלי שום אזכור של סוללה; כניסה אחת "מקליטים" במקום "מתחילים יום" ו"מודדים ירידה": סקי־פס עם כפתור הקלטה בראש עמוד השלטים וכפתור עגול במפה, באותו רעיון בשתי האפליקציות (האנדרואיד בכיוון של האייפון), מכל מקום ובכל שעה; הנגיעה מתחילה מיד, ובראש הגיליון החי בוחרים "כל היום" או "ירידה אחת". ציר זמן חדש: פס צבעוני של היום, פרקים (בוקר, צהריים, אחר הצהריים), כל ירידה כרטיס בצבע המסלול עם מספר אחד, רכבל רק כשהיה תור, ומקום שמור לתובנה של היום (הנוסח אצל סשן התוכן). "Export as GPX" ירד, וגם לוח האזהרה שלו. **סבב 31:** צבע לכל סוג מקום, ושתי חלופות (נקודות קטנות תמיד, ההמלצה; או תגיות רק עם הצ׳יפ). **סבב 21:** שמות קטנים בשלוש אפשרויות (על הקו, לצד הקו ומתעקל איתו, תגית); ההמלצה: לצד הקו. שום דבר לא שונה באתר ובאפליקציות.
 
